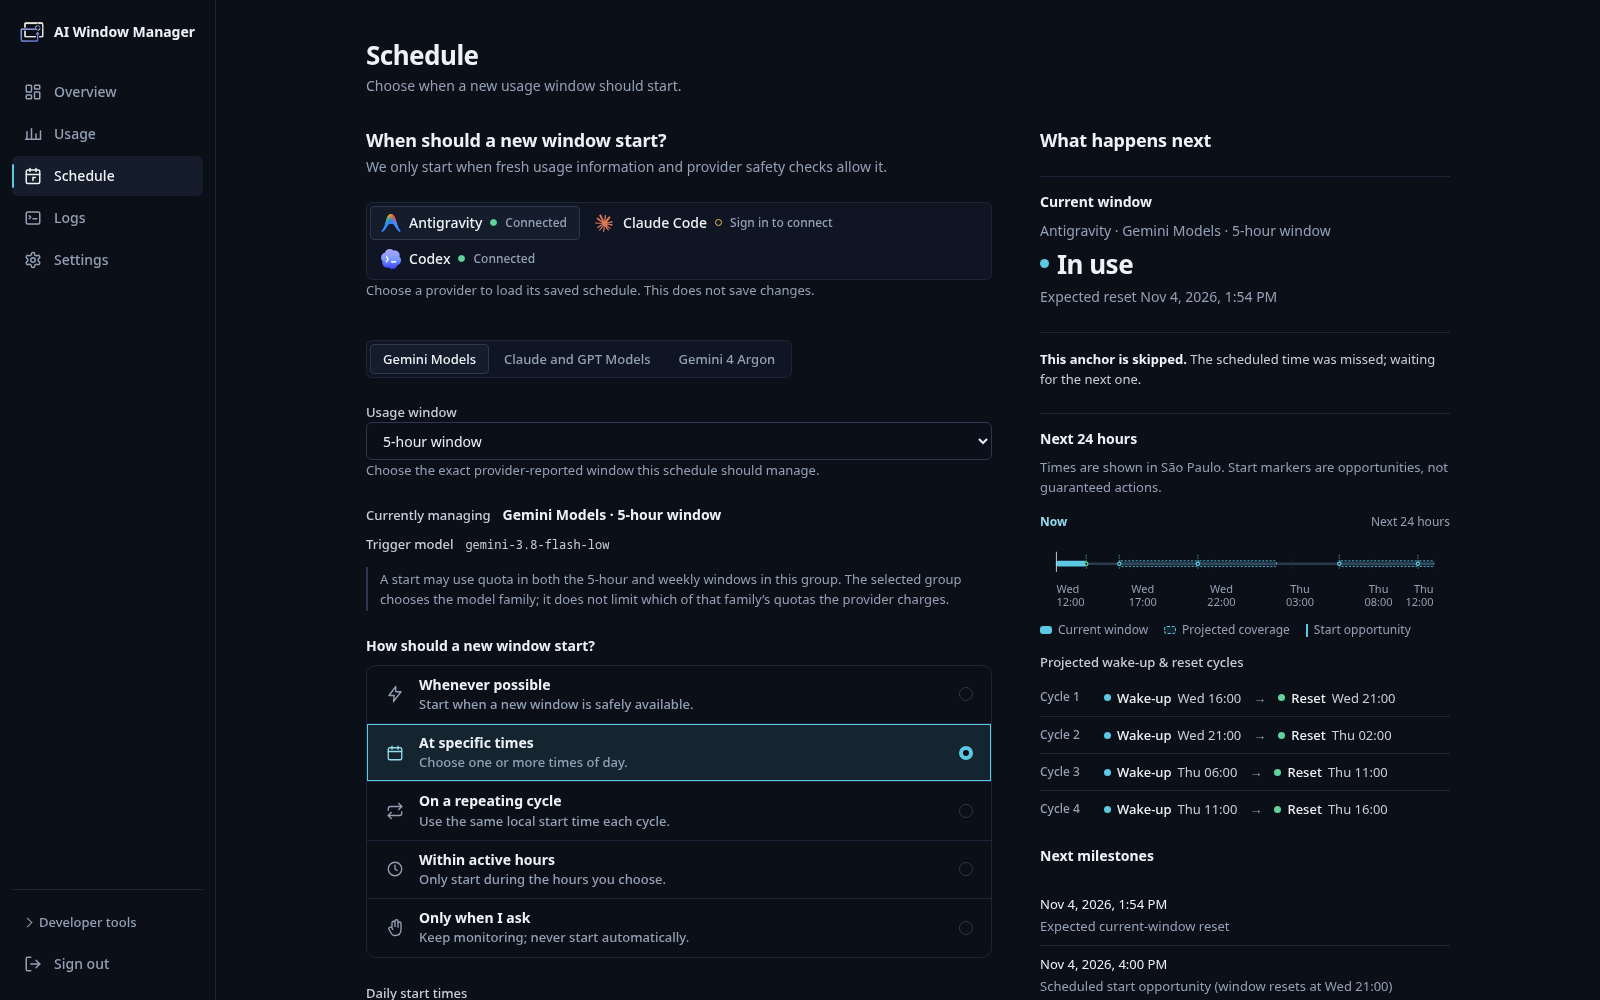
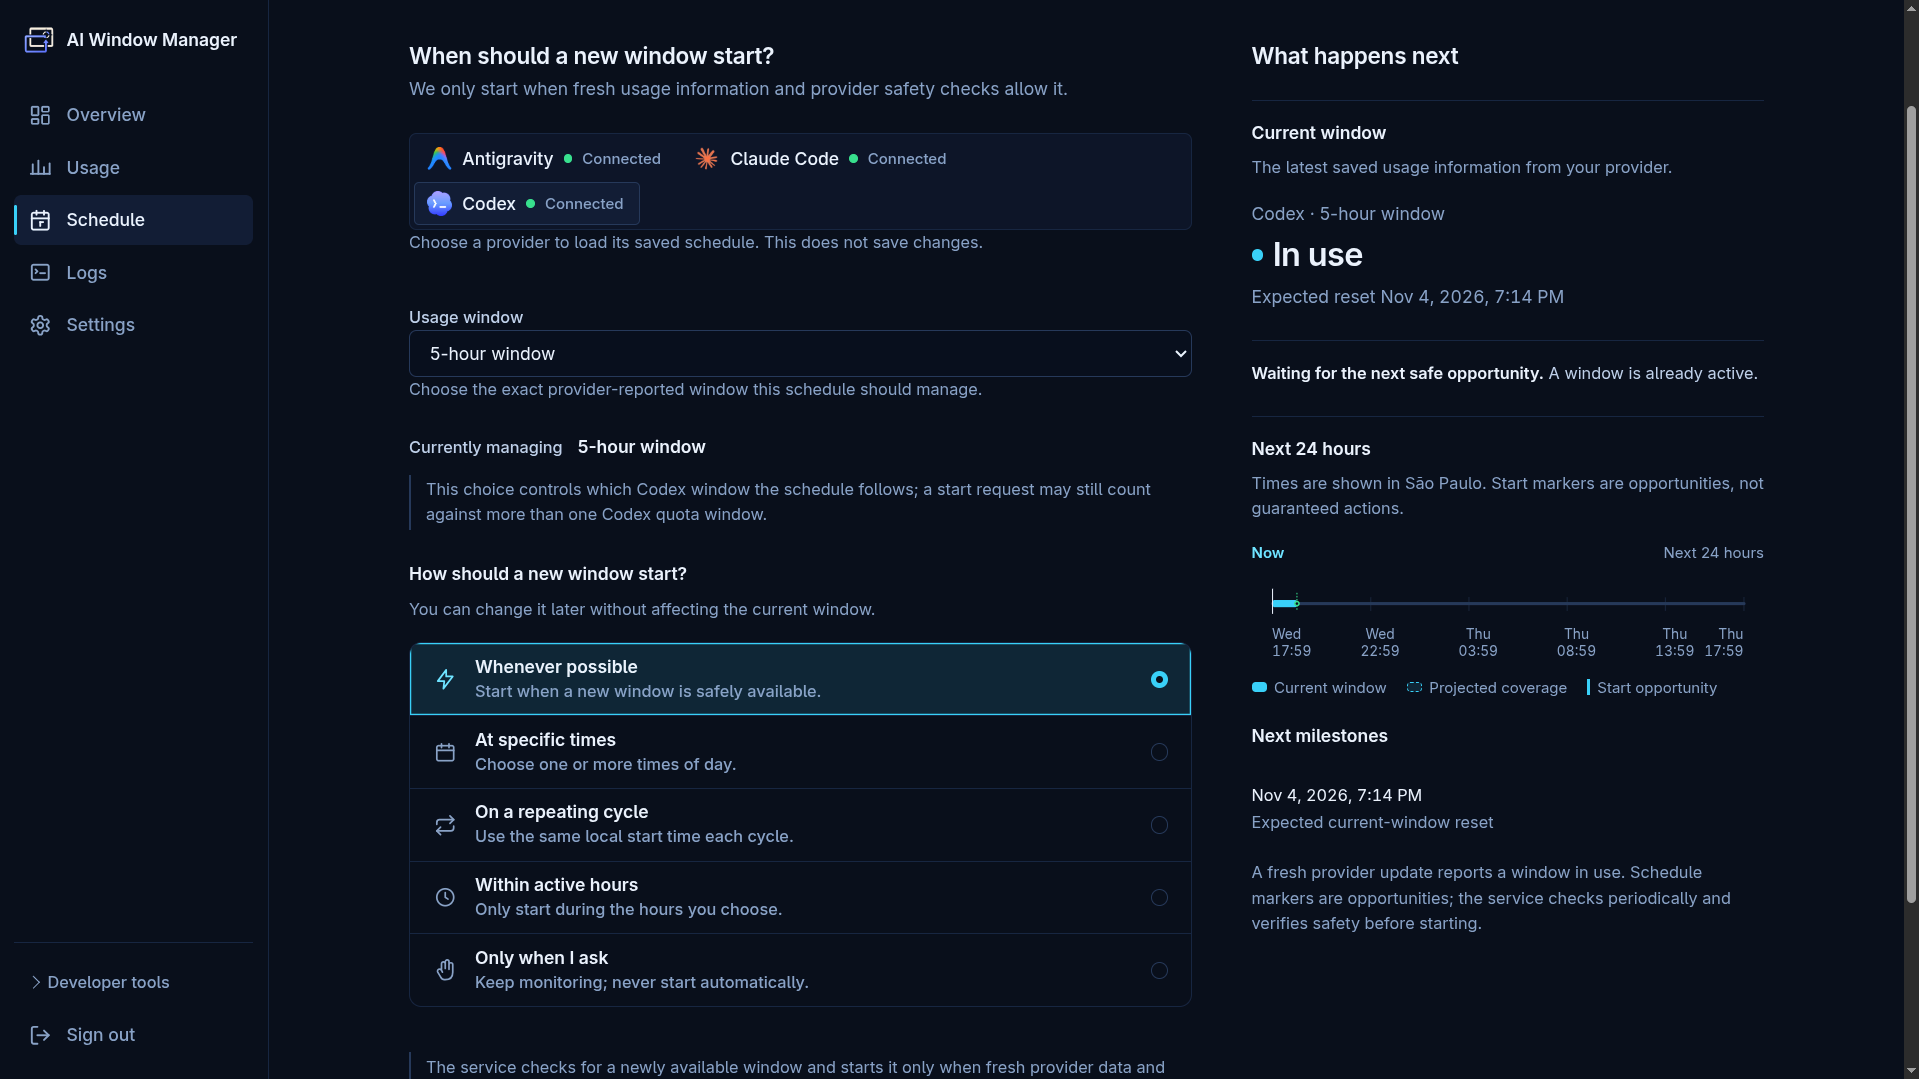
fix(ui-checks): pass demo credentials as CDP arguments and wait for Chromium exit
CodeQL flagged the login helper for building page script text from the
demo credentials. Pass them as Runtime.callFunctionOn arguments instead.
Also remove the Chromium profile only after the process has exited, which
fixed an ENOTEMPTY failure at cleanup. Refresh the README overview,
usage and schedule screenshots with the current app.

diff --git a/README.md b/README.md
@@ -269,9 +269,9 @@ scheduling, and activity details.
 <details>
 <summary>More app screens</summary>
 
-**Usage — per-window charts and daily history**
+**Usage — per-window charts and provider filtering**
 
-![Usage page showing provider usage charts and the daily heatmap](assets/images/screenshots/usage.png)
+![Usage page showing per-window usage charts for the selected provider](assets/images/screenshots/usage.png)
 
 **Schedule — provider, model family, target window, and start policy**
 
